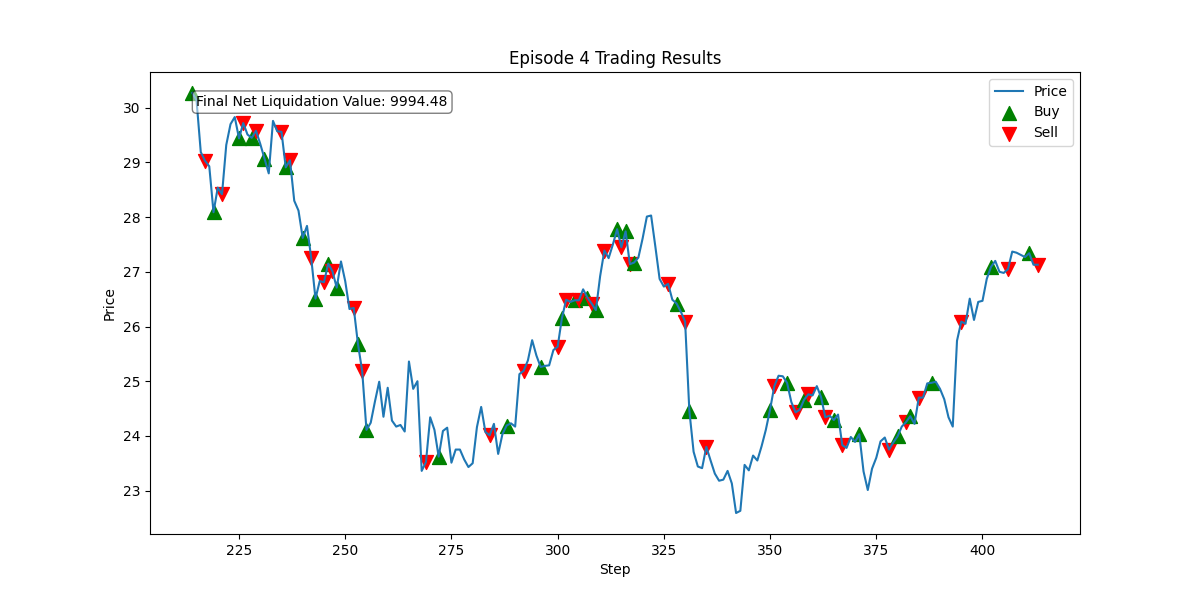
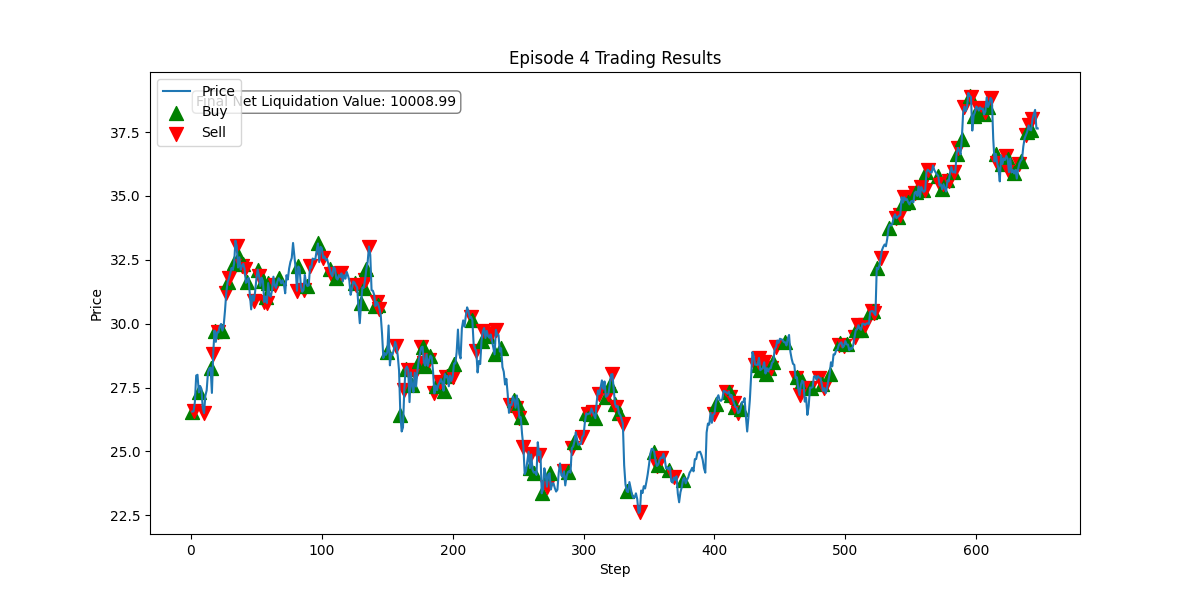
bs

diff --git a/deep_q.py b/deep_q.py
@@ -4,6 +4,7 @@ import random
 import tensorflow as tf
 import pandas as pd
 import os  # To handle directory creation
+from tensorflow.keras.preprocessing.sequence import pad_sequences
 
 # Parameters
 gamma = 0.95                  # Discount factor for future rewards
@@ -11,9 +12,8 @@ epsilon = 1.0                 # Initial exploration rate
 epsilon_decay = 0.995         # Decay rate for exploration probability
 epsilon_min = 0.01            # Minimum exploration probability
 batch_size = 32               # Batch size for training
-episodes = 10 # Number of episodes to train
+episodes = 5                 # Number of episodes to train
 target_update_freq = 5        # Frequency to update the target network
-episode_length = 200 # Number of steps per episode
 
 # Ensure the results directory exists
 if not os.path.exists('results'):
@@ -28,25 +28,25 @@ if 'Close' not in data.columns:
 
 # Simple Trading Environment
 class SimpleTradingEnv:
-    def __init__(self, data, episode_length=200):
+    def __init__(self, data):
         self.data = data.reset_index(drop=True)
         self.data_length = len(self.data)
-        self.episode_length = episode_length
         self.initial_account_value = 10000
         self.reset()
 
     def reset(self):
         """Resets the environment to the initial state."""
         self.account_value = self.initial_account_value
-
-        # Randomize the starting point, ensuring enough data for the episode
-        self.start_step = random.randint(0, self.data_length - self.episode_length - 1)
-        self.current_step = self.start_step
+        self.current_step = 0  # Start from the beginning
         self.done = False
         self.position = 0        # 0: No position, 1: Long position
         self.entry_price = None  # Price at which the position was opened
         self.current_price = self.data.loc[self.current_step, 'Close']
-        return np.array([self.current_price])
+        return self._get_observation()
+
+    def _get_observation(self):
+        # Include all past prices up to the current step
+        return self.data['Close'].iloc[:self.current_step + 1].values
 
     def step(self, action):
         """
@@ -88,7 +88,7 @@ class SimpleTradingEnv:
         self.current_step += 1
 
         # Check if the episode is done
-        if self.current_step >= self.start_step + self.episode_length:
+        if self.current_step >= self.data_length - 1:
             self.done = True
         else:
             self.current_price = self.data.loc[self.current_step, 'Close']
@@ -108,20 +108,27 @@ class SimpleTradingEnv:
             reward += profit_loss
             self.entry_price = None
 
+        # Get the next observation
+        if not self.done:
+            observation = self._get_observation()
+        else:
+            observation = np.zeros(self.current_step + 1)  # Return zeros if done
+
         # Include trade information in info dictionary
         info = {'trade_executed': trade_executed, 'trade_action': trade_action}
 
-        return np.array([self.current_price]), reward, self.done, info
+        return observation, reward, self.done, info
 
-# Create the DQN Model
-def create_model():
+# Create the DQN Model with LSTM
+def create_model(input_shape, action_size):
     """
-    Builds a Deep Q-Network model using Keras.
+    Builds a Deep Q-Network model using Keras with LSTM layers.
     """
     model = tf.keras.Sequential([
-        tf.keras.layers.Dense(24, activation='relu', input_shape=(1,)),
-        tf.keras.layers.Dense(24, activation='relu'),
-        tf.keras.layers.Dense(3, activation='linear')  # 3 actions: Buy, Sell, Hold
+        tf.keras.layers.Masking(mask_value=0., input_shape=input_shape),
+        tf.keras.layers.LSTM(64, return_sequences=False),
+        tf.keras.layers.Dense(64, activation='relu'),
+        tf.keras.layers.Dense(action_size, activation='linear')
     ])
     model.compile(loss='mse', optimizer='adam')
     return model
@@ -148,7 +155,7 @@ class ReplayBuffer:
         return random.sample(self.buffer, batch_size)
 
 # Training Function
-def train(replay_buffer, model, target_model, batch_size):
+def train(replay_buffer, model, target_model, batch_size, max_length):
     """
     Trains the model using experiences from the replay buffer.
     """
@@ -156,15 +163,23 @@ def train(replay_buffer, model, target_model, batch_size):
         return
 
     minibatch = replay_buffer.sample(batch_size)
-    states = np.array([exp[0] for exp in minibatch]).reshape(batch_size, -1)
+    states = [exp[0] for exp in minibatch]
     actions = np.array([exp[1] for exp in minibatch])
     rewards = np.array([exp[2] for exp in minibatch])
-    next_states = np.array([exp[3] for exp in minibatch]).reshape(batch_size, -1)
+    next_states = [exp[3] for exp in minibatch]
     dones = np.array([exp[4] for exp in minibatch])
 
+    # Pad sequences
+    states_padded = pad_sequences(states, maxlen=max_length, dtype='float32', padding='pre', truncating='pre')
+    next_states_padded = pad_sequences(next_states, maxlen=max_length, dtype='float32', padding='pre', truncating='pre')
+
+    # Reshape for LSTM input
+    states_padded = states_padded.reshape(batch_size, max_length, 1)
+    next_states_padded = next_states_padded.reshape(batch_size, max_length, 1)
+
     # Predict Q-values for current states and next states
-    q_values = model.predict(states)
-    target_q_values = target_model.predict(next_states)
+    q_values = model.predict(states_padded)
+    target_q_values = target_model.predict(next_states_padded)
 
     # Update Q-values using the Bellman equation
     for i in range(batch_size):
@@ -174,26 +189,32 @@ def train(replay_buffer, model, target_model, batch_size):
             q_values[i][actions[i]] = rewards[i] + gamma * np.amax(target_q_values[i])
 
     # Train the model
-    model.fit(states, q_values, epochs=1, verbose=0)
+    model.fit(states_padded, q_values, epochs=1, verbose=0)
 
 # Epsilon-Greedy Action Selection
-def select_action(state, model, epsilon):
+def select_action(state, model, epsilon, max_length):
     """
     Selects an action using an epsilon-greedy policy.
     """
     if np.random.rand() <= epsilon:
         return np.random.randint(0, 3)  # Random action (Buy, Sell, Hold)
     else:
-        q_values = model.predict(state)
+        # Pad the state
+        padded_state = pad_sequences([state], maxlen=max_length, dtype='float32', padding='pre', truncating='pre')
+        padded_state = padded_state.reshape(1, max_length, 1)
+        q_values = model.predict(padded_state)
         return np.argmax(q_values[0])
 
 # Main Training Loop
-env = SimpleTradingEnv(data, episode_length=episode_length)
-state_size = 1   # Current price
+env = SimpleTradingEnv(data)
 action_size = 3  # Buy, Sell, Hold
 
-model = create_model()
-target_model = create_model()
+max_length = env.data_length  # Maximum possible sequence length
+
+input_shape = (max_length, 1)
+
+model = create_model(input_shape, action_size)
+target_model = create_model(input_shape, action_size)
 target_model.set_weights(model.get_weights())
 
 replay_buffer = ReplayBuffer()
@@ -212,8 +233,7 @@ for episode in range(episodes):
     trade_actions = []    # Actions that were executed ('Buy' or 'Sell')
 
     while True:
-        state = state.reshape(1, -1)
-        action = select_action(state, model, epsilon)
+        action = select_action(state, model, epsilon, max_length)
         next_state, reward, done, info = env.step(action)
         total_reward += reward
         steps += 1
@@ -233,7 +253,7 @@ for episode in range(episodes):
         state = next_state
 
         # Train the model if enough samples are available
-        train(replay_buffer, model, target_model, batch_size)
+        train(replay_buffer, model, target_model, batch_size, max_length)
 
         # Update target network periodically
         if steps % target_update_freq == 0:
